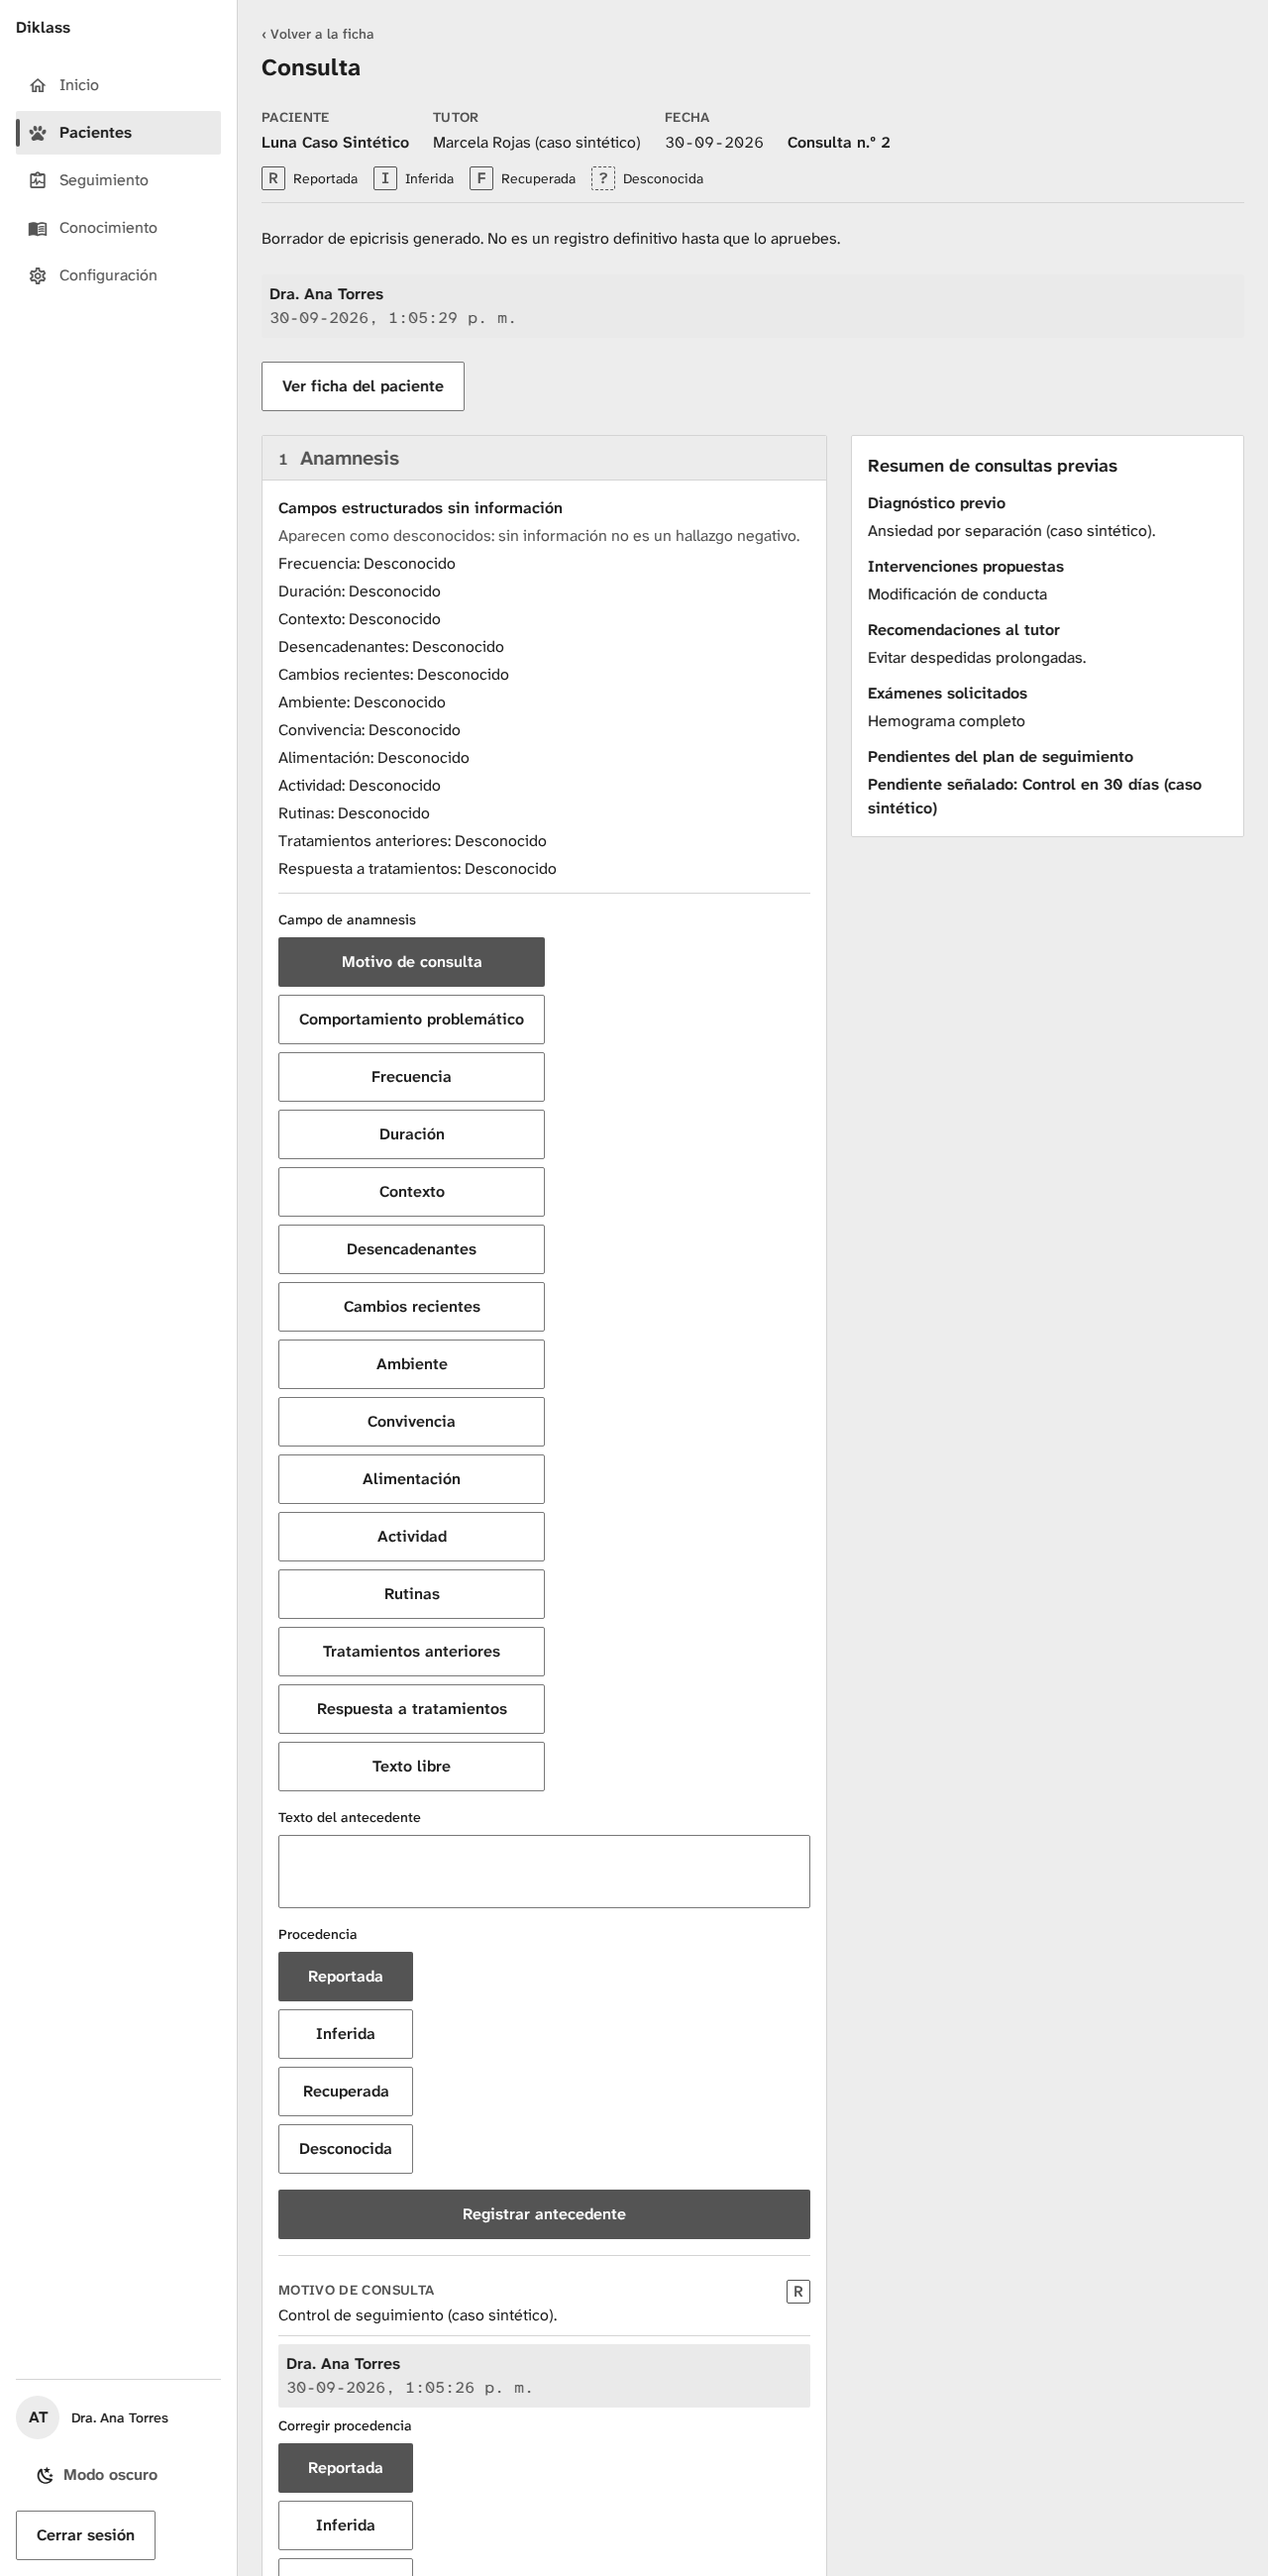
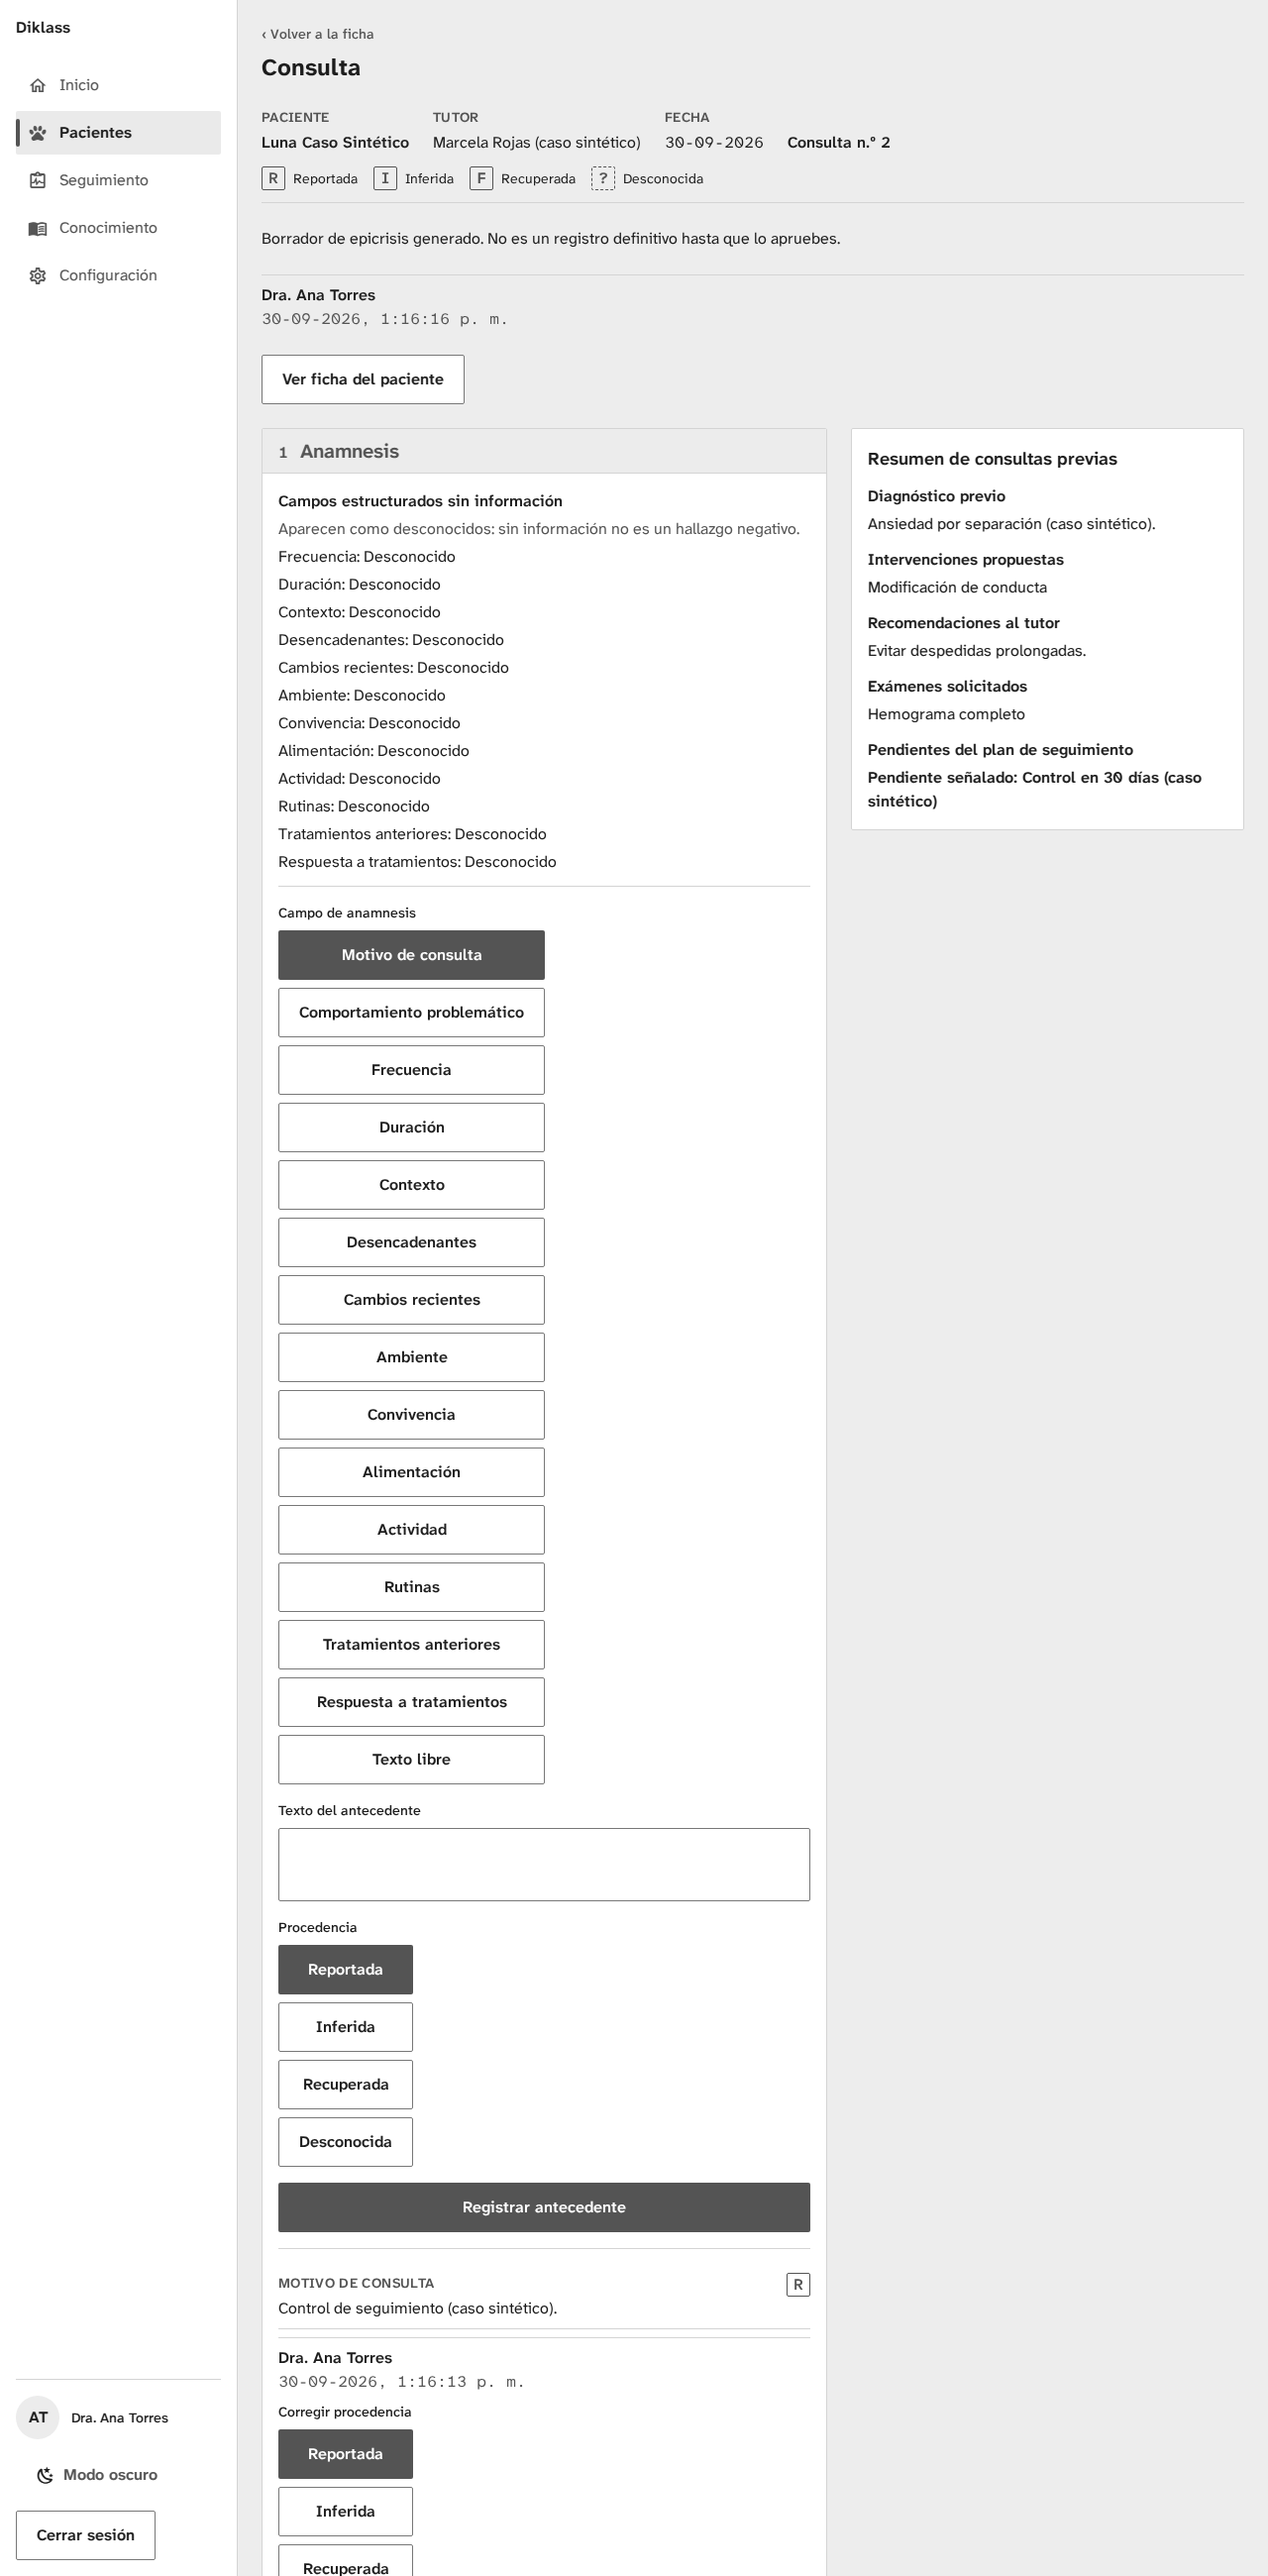
fix(ui): correcciones de la revisión impeccable de D20 (12.10)
La atribución pasa a línea de firma sin losa gris, la epicrisis efectiva
deja de ser una Card dentro de la sección 3 y la copia sugerida pierde
el icono de robot. Capturas de la sección 3 en borrador y sección
«Sistema visual» de AGENTS.md con las primitivas de D20.

diff --git a/src/app/(protected)/(patients)/consultations/[id].tsx b/src/app/(protected)/(patients)/consultations/[id].tsx
@@ -676,8 +676,12 @@ export default function ConsultationScreen() {
                       </Text>
                     ) : (
                       <>
-                        <Card className="gap-2" testID="epicrisis-effective">
-                          <Text variant="strong">Epicrisis efectiva — registro definitivo</Text>
+                        {/* Renglón de la sección 3, no una caja dentro de otra (D20). */}
+                        <VStack
+                          className="gap-2 border-b border-border pb-3"
+                          testID="epicrisis-effective"
+                        >
+                          <Text variant="rubric">Epicrisis efectiva — registro definitivo</Text>
                           {effectiveEntry.record.status === "corrective" ? (
                             <Text>
                               Corrige una versión anterior, que permanece registrada y recuperable.
@@ -692,7 +696,7 @@ export default function ConsultationScreen() {
                               attribution={attributionFromRow(effectiveEntry.record)}
                             />
                           </Animated.View>
-                        </Card>
+                        </VStack>
                         {epicrisisCorrections.length > 0 ? (
                           <VStack className="gap-2" testID="epicrisis-corrections">
                             <Heading level={3}>Correcciones</Heading>

diff --git a/tests/unit/clinical/correction-line.test.tsx b/tests/unit/clinical/correction-line.test.tsx
@@ -96,6 +96,14 @@ describe("CorrectionLine", () => {
     expect(current).toContain("Dr. Bruno Soto");
   });
 
+  // D20: el único color de superficie son los pliegos; la atribución es una línea de firma.
+  test("la atribución no pinta una losa gris sobre el pliego", () => {
+    const badge = html.match(/<div[^>]*data-testid="attribution-badge"[^>]*>/)?.[0] ?? "";
+    expect(badge).not.toBe("");
+    expect(badge).not.toContain("bg-muted");
+    expect(badge).toContain("border-t");
+  });
+
   test("lleva el rótulo del campo", () => {
     expect(html).toContain(">Diagnóstico registrado<");
   });

diff --git a/src/components/ui/suggested-block.tsx b/src/components/ui/suggested-block.tsx
@@ -1,6 +1,5 @@
 import type { PropsWithChildren } from "react";
 import { View } from "react-native";
-import { Icon } from "@/components/ui/icon";
 import { Text } from "@/components/ui/text";
 import { CONTINUOUS_CURVE } from "./border-curve";
 
@@ -26,7 +25,6 @@ export function SuggestedBlock({ children, className, testID }: SuggestedBlockPr
       testID={testID}
     >
       <View className="flex-row items-center gap-1">
-        <Icon decorative name="robot-outline" size="sm" tone="muted-foreground" />
         <Text tone="muted" variant="label">
           {LABEL}
         </Text>

diff --git a/tests/unit/ui/suggested-block.test.tsx b/tests/unit/ui/suggested-block.test.tsx
@@ -37,7 +37,9 @@ describe("SuggestedBlock", () => {
     expect(label).toBeLessThan(html.indexOf("Motivo de consulta"));
   });
 
-  test("el icono de la etiqueta es decorativo (el texto ya la nombra)", () => {
-    expect(html).toContain('aria-hidden="true"');
+  // D20: sin el emblema de «IA» (robot, destellos); el pliego y la etiqueta ya lo dicen.
+  test("no lleva icono: la etiqueta y el pliego bastan", () => {
+    expect(html).not.toContain('aria-hidden="true"');
+    expect(html).not.toContain("material-community");
   });
 });

diff --git a/src/components/clinical/attribution-badge.tsx b/src/components/clinical/attribution-badge.tsx
@@ -27,7 +27,7 @@ export function AttributionBadge({
   return (
     <Box
       accessibilityLabel={`Atribuido a ${actor} el ${occurredAt}`}
-      className="rounded-sm bg-muted p-2"
+      className="self-stretch border-t border-border pt-2"
       testID="attribution-badge"
     >
       <Text variant="strong">{actor}</Text>

diff --git a/AGENTS.md b/AGENTS.md
@@ -71,6 +71,10 @@ Reglas para cualquier UI nueva o modificada:
   para props que no aceptan `className` (`useThemeColors()`). Un token nuevo va en ambos y en
   `tests/unit/theme/tema.test.ts` con su par de contraste AA. Nunca hex, `rgb()`, paleta fija de
   Tailwind ni escalas numeradas de gluestack (`text-warning-700`): la guarda de ese test falla.
+  Identidad «Formulario en copias» (D20): el color de superficie se concentra en los pliegos
+  (`suggested-surface` para lo sugerido, `correction-surface` para lo corregido); el resto es tinta
+  (`primary` preimpresa, `foreground` del veterinario) sobre papel (`card`). `stamp` solo pinta el
+  timbre de firma, junto al nombre de un profesional.
 - **Primitivas** (`src/components/ui/`):
   - Pantalla: `Screen`, con `title` (en web, `h1` y `<title>`; en nativo, la cabecera del
     `Stack`) y `back={{ href, label }}` en las pantallas de detalle. Nunca `Head` suelto.
@@ -80,10 +84,20 @@ Reglas para cualquier UI nueva o modificada:
   - Datos que se cargan: `QueryState` (cargando > error con «Reintentar» > vacío > contenido),
     con `isPending` de TanStack Query para no mostrar el vacío durante la primera carga. El vacío
     explica qué falta y ofrece la acción para crearlo.
-  - Superficie: `Card`.
-  - Estado: `Callout tone="error|warning|success|info"`.
-  - Contenido del sistema sin validar: `SuggestedBlock`.
-  - Severidad clínica: `SeverityBadge`.
+  - Superficie: `Card` (listas y paneles fuera de la consulta).
+  - Formulario clínico (D20): `FormSection` (sección numerada con banda preimpresa; la activa, en
+    `primary` sólido) y `Field` (rótulo `rubric` + valor + marca al margen).
+  - Procedencia (FR-097): `ProvenanceMark` al margen de todo dato con `Provenance` (R/I/F/?,
+    nombre «Procedencia: …») y `ProvenanceKey` en el encabezado de la consulta. Nunca el texto
+    «Procedencia: X» suelto.
+  - Estado: `Callout tone="error|warning|success|info"`, un renglón dentro de su sección, nunca
+    una caja flotante ni un toast (FR-100).
+  - Contenido del sistema sin validar: `SuggestedBlock` (pliego canario, «Sugerencia del sistema ·
+    copia sin firmar»). Contenido aprobado: `AttributionBadge approved`, que pinta
+    `SignatureStamp`.
+  - Corrección de un registro firmado: `CorrectionLine` (anterior tachado tras «Reemplazado» y el
+    vigente en el pliego rosa) y `ProvenanceCorrection` en la anamnesis.
+  - Severidad clínica: `SeverityBadge` (nombre, icono y barra de 4 segmentos).
   - Iconos: `Icon` (`label` o `decorative`, obligatorio).
   - Persona: `Avatar` con iniciales; es decorativo, así que el nombre siempre va al lado como
     texto o como nombre accesible del control que lo contiene.
@@ -92,7 +106,12 @@ Reglas para cualquier UI nueva o modificada:
     `markedDates` directamente.
 - **Texto:** `Text variant="body|caption|label|strong"` y `tone`; títulos con
   `Heading level={1|2|3}`. Nada de `text-sm`/`text-xs` sueltos ni `text-foreground/70`. La
-  variante `nav` (12 px) es exclusiva de las etiquetas de navegación.
+  variante `nav` (12 px) es exclusiva de las etiquetas de navegación. `data` (Atkinson
+  Hyperlegible Mono, cifras tabulares) para números de consulta, fechas y horas, pesos, edades,
+  dosis y códigos; `rubric` para los rótulos preimpresos del formulario. `data` fija `text-base`:
+  no se anida dentro de un texto `caption`.
+- **Movimiento:** la firma es la única animación de autor (`useSignatureMotion`,
+  `SIGNATURE_MS` ≤ 300 ms) y es inmediata con Reduce Motion / `prefers-reduced-motion`.
 - **Tema:** la preferencia (`system|light|dark`, por defecto `system`) se lee y cambia con
   `useThemePreference()`, y el esquema efectivo con `useColorScheme()` de
   `src/theme/use-color-scheme.ts`, nunca el de `react-native`. Un token nuevo va también en los

diff --git a/openspec/changes/sistema-visual/quickstart.md b/openspec/changes/sistema-visual/quickstart.md
@@ -1138,3 +1138,30 @@ y `accessibility` (12/12).
   - `12.9-seguimiento-grises.png`: «Grave» con icono, negrita y barra de 3/4 segmentos llenos.
 - **Revisión visual**: quité una regla sobrante bajo la banda de la sección 2 con la consulta
   cerrada. Es un cambio solo de clases, posterior a las ejecuciones de arriba.
+
+### 12.10 — Capturas y revisión final
+
+- **Web**, en `evidencia/` y en `chromium`:
+  - consulta abierta a 1440 y 375 px, claro y oscuro: `12.10-consulta-*`;
+  - sección 3 en borrador, con el pliego canario, «copia sin firmar» y «Firmar y cerrar
+    consulta»: `12.10-epicrisis-borrador-*`;
+  - consulta firmada y corregida a 1440 px: `12.10-consulta-firmada-*`;
+  - sección 3 en borrador en escala de grises: `12.9-epicrisis-borrador-grises.png`.
+- **Nativo — pendiente explícito:** no hay `adb`, emulador ni `xcrun` en esta máquina. Faltan las
+  capturas de iOS y Android y comprobar Atkinson Mono en nativo.
+- **Revisión `impeccable`** contra el contrato de dirección. Veredicto: «no se envía tal cual»,
+  con 8 correcciones.
+  - Aplicadas (D20), con prueba en rojo donde aplica:
+    - (1) captura de la sección 3 en borrador;
+    - (4) la atribución deja la losa `bg-muted` y pasa a línea de firma;
+    - (5) la epicrisis efectiva deja de ser una `Card` dentro de `FormSection`;
+    - (7) sin el icono de robot en la copia sugerida.
+  - No aplicada:
+    - (6) marcar con `?` los campos sin información. D20 limita la marca a los datos con
+      procedencia en el modelo, y US2-AC4 distingue «sin dato» de la procedencia `desconocida`.
+  - Pendientes de decisión del usuario, porque cambian comportamiento fuera de D20:
+    - (2) `OptionPicker` en fila y selector de procedencia R/I/F/?;
+    - (3) banda activa al cargar;
+    - (8) estado en el encabezado y retirar «Ver ficha del paciente».
+- **Tras las correcciones**, en `chromium`: `accessibility`, `consulta-formulario`,
+  `registro-epicrisis` y `auth`, 26/26.
